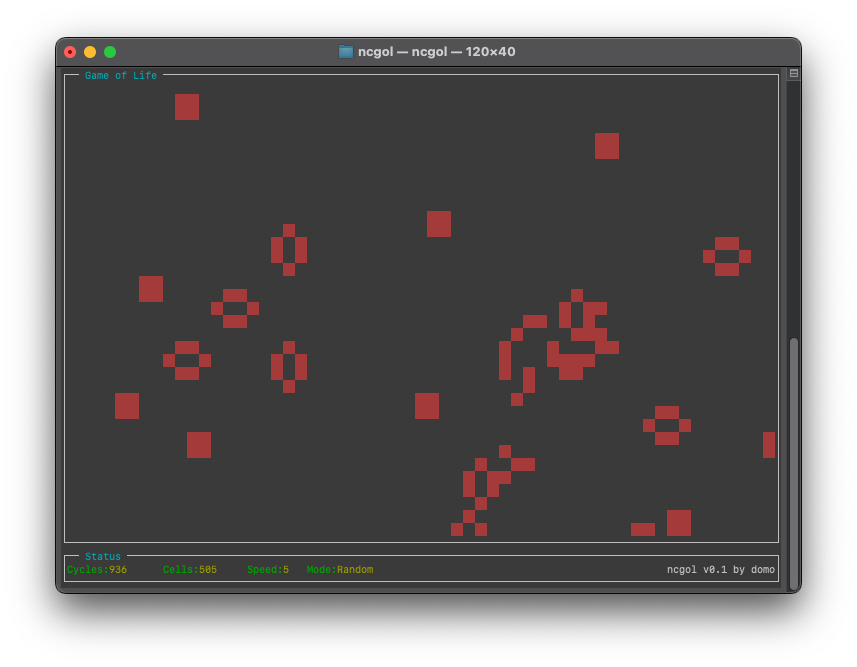
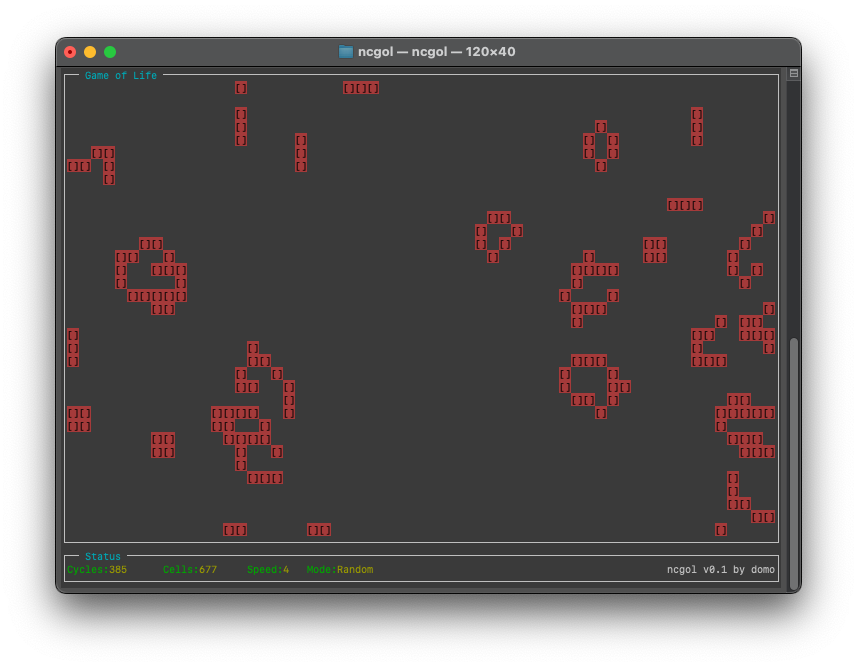
Changed optic of cell

diff --git a/ncgol.c b/ncgol.c
@@ -192,14 +192,16 @@ static void draw_grid(void)
             if(grid[x][y])
             {
               wattron(w_grid, COLOR_PAIR(4));
+              mvwaddch(w_grid, y, x*2+0, '[');
+              mvwaddch(w_grid, y, x*2+1, ']');
               cells_alive++;
             }
             else
             {
               wattron(w_grid, COLOR_PAIR(5));
+              mvwaddch(w_grid, y, x*2+0, ' ');
+              mvwaddch(w_grid, y, x*2+1, ' ');
             }
-            mvwaddch(w_grid, y, x*2+0, ' ');
-            mvwaddch(w_grid, y, x*2+1, ' ');
       }
     }
     wattroff(w_status, COLOR_PAIR(1));
@@ -321,12 +323,12 @@ int main(void)
 
   // Prepare coloring
   start_color();
-  init_pair(1, COLOR_WHITE, COLOR_BLACK);  // Standard
-  init_pair(2, COLOR_GREEN, COLOR_BLACK);  // Label
+  init_pair(1, COLOR_WHITE,  COLOR_BLACK); // Standard
+  init_pair(2, COLOR_GREEN,  COLOR_BLACK); // Label
   init_pair(3, COLOR_YELLOW, COLOR_BLACK); // Value
-  init_pair(4, COLOR_RED,   COLOR_RED);    // Live cell
-  init_pair(5, COLOR_BLACK, COLOR_BLACK);  // Dead cell
-  init_pair(6, COLOR_CYAN, COLOR_BLACK);   // Title
+  init_pair(4, COLOR_BLACK,  COLOR_RED);   // Live cell
+  init_pair(5, COLOR_BLACK,  COLOR_BLACK); // Dead cell
+  init_pair(6, COLOR_CYAN,   COLOR_BLACK); // Title
   ESCDELAY = 1; // Set the delay for escape sequences
 
   // Create status window
@@ -355,7 +357,7 @@ int main(void)
 
   // Init
   mode  = ModeTypeRandom;
-  speed = 5;
+  speed = 4;
 
   init_grid();
   draw_grid();
